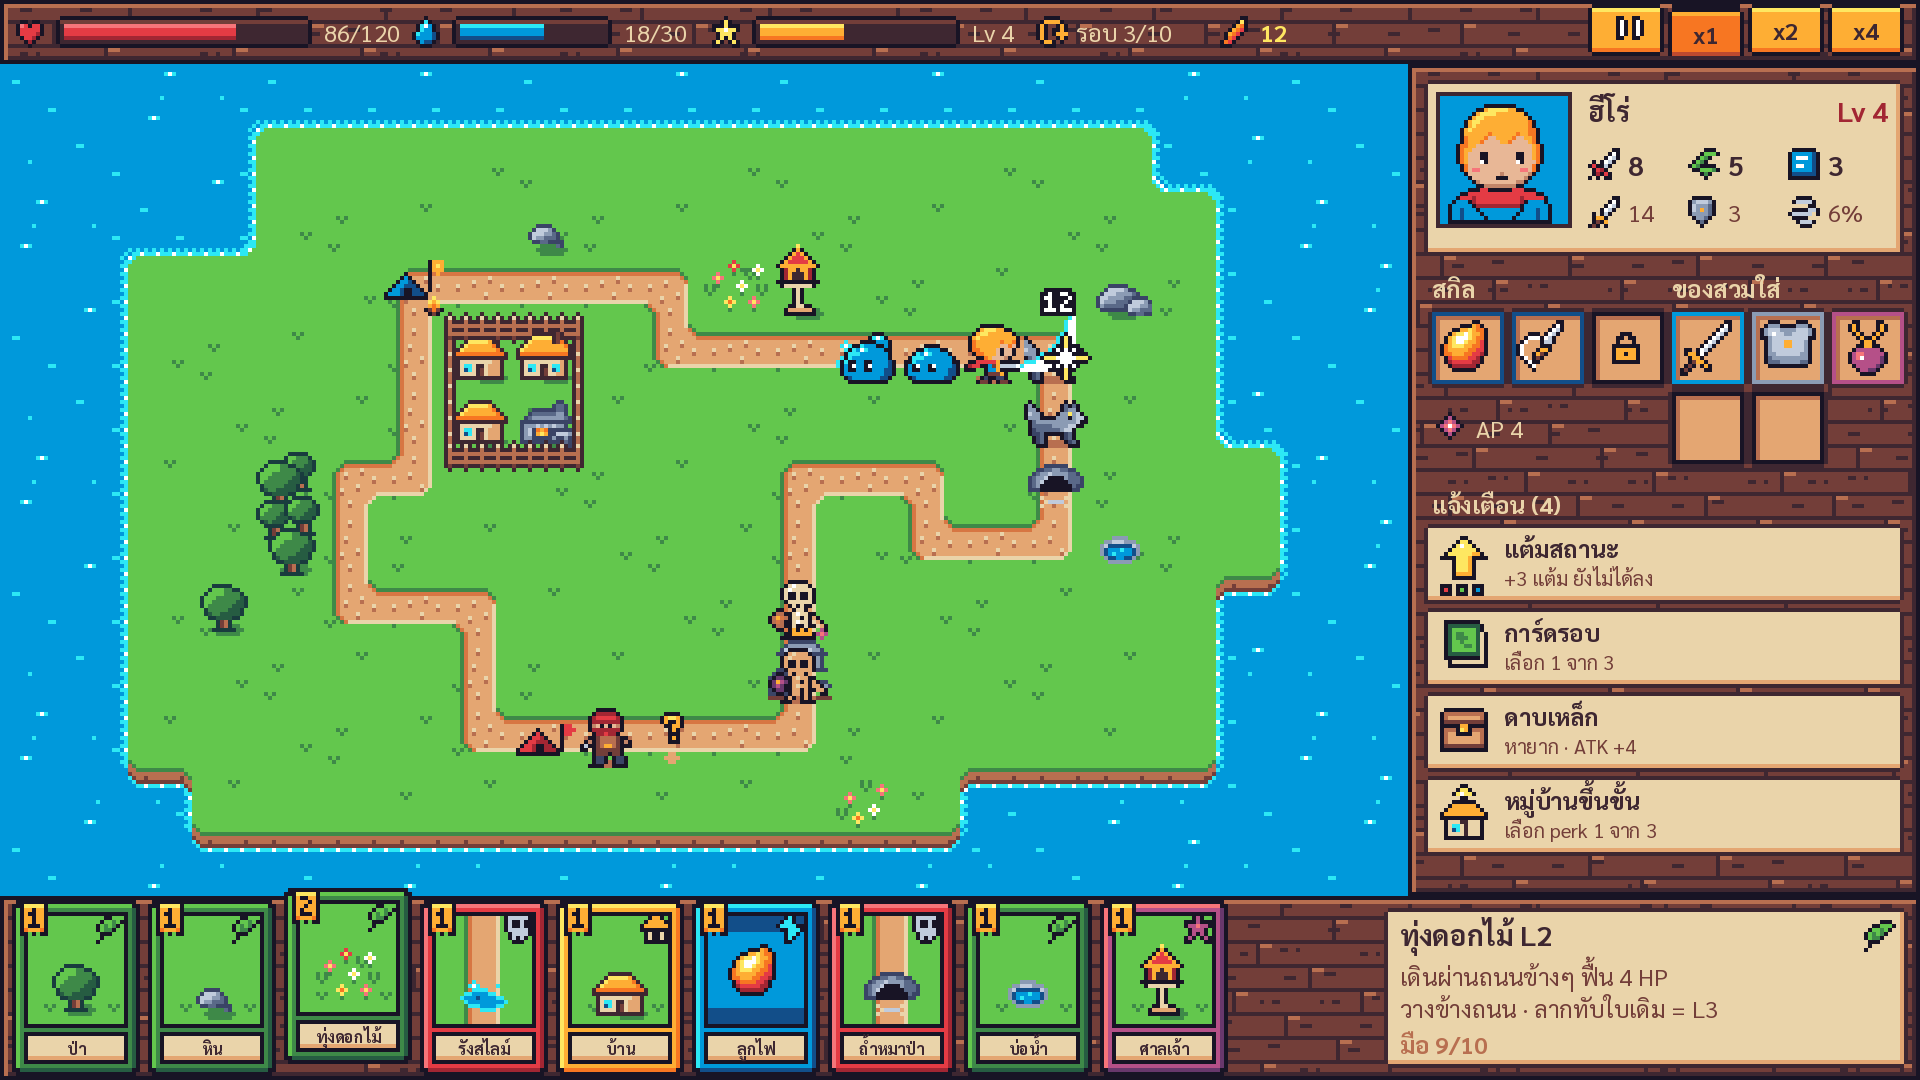
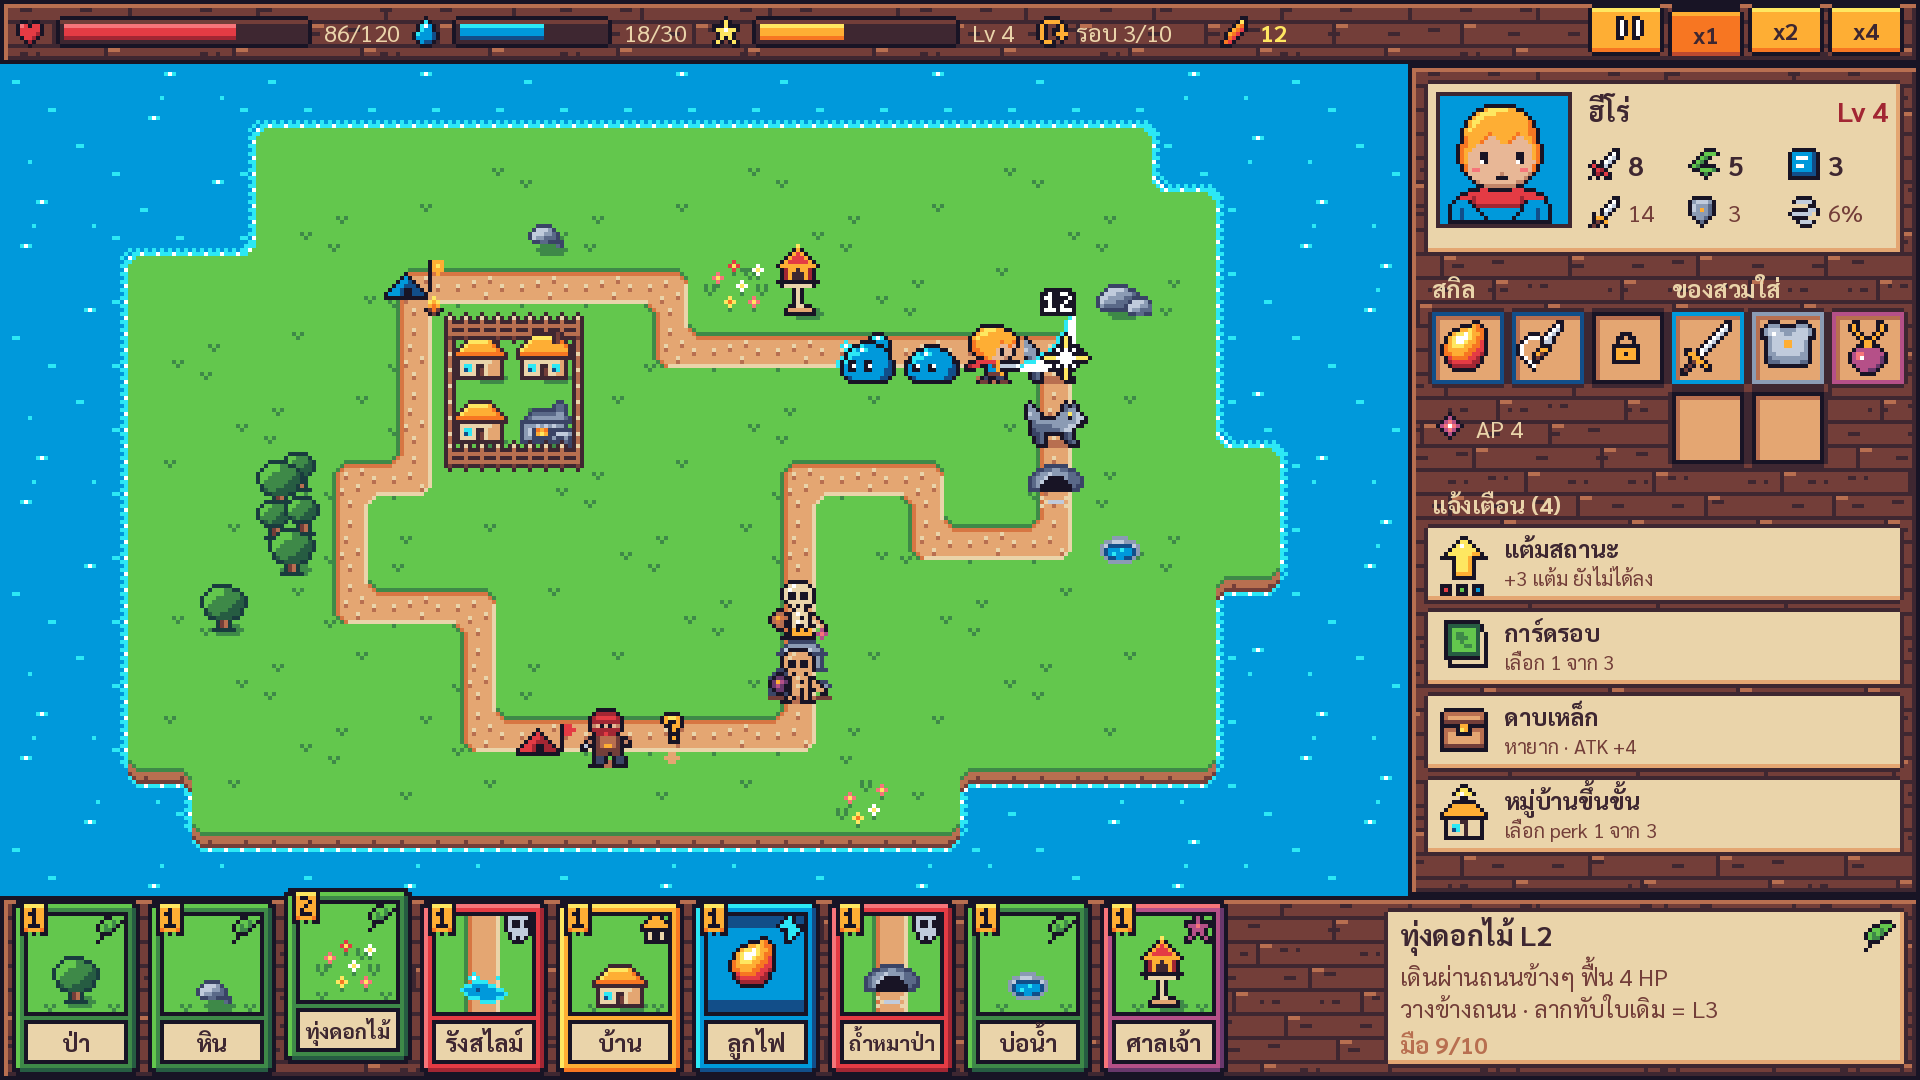
Make the card name plate 24x9 so Thai names fit
A 6 px Thai font is about 9 px tall with tone marks, so the 6 px plate
cut marks off and long names overflowed. The art window shrinks from
24x27 to 24x24 to make room; the manifest, art bible and mockups follow.

Claude-Session: https://claude.ai/code/session_01FubDSbCbpUZT7FYAeTdQ9B

Changed region(s): [[0.0, 0.8556, 0.625, 1.0]]

diff --git a/tools/art/mockup.py b/tools/art/mockup.py
@@ -196,18 +196,26 @@ class Screen:
     def paste(self, spr, x, y):
         px.paste(self.im, spr, x, y)
 
-    def text(self, x, y, s, size=7, key="w", bold=False, anchor="la"):
-        self.texts.append((x, y, s, size, key, bold, anchor))
+    def text(self, x, y, s, size=7, key="w", bold=False, anchor="la", fit=None):
+        """fit: max width in screen px; the text is shrunk to fit like the game does."""
+        self.texts.append((x, y, s, size, key, bold, anchor, fit))
+
+    def font(self, size, bold):
+        f = self.fonts.get((size, bold))
+        if f is None:
+            path = os.path.join(self.fonts["dir"], "Sarabun-Bold.ttf" if bold else "Sarabun-Regular.ttf")
+            f = ImageFont.truetype(path, round(size * Z), layout_engine=ImageFont.Layout.RAQM)
+            self.fonts[(size, bold)] = f
+        return f
 
     def render(self):
         big = self.im.resize((VIEW[0] * Z, VIEW[1] * Z), Image.NEAREST)
         d = ImageDraw.Draw(big)
-        for (x, y, s, size, key, bold, anchor) in self.texts:
-            f = self.fonts.get((size, bold))
-            if f is None:
-                path = os.path.join(self.fonts["dir"], "Sarabun-Bold.ttf" if bold else "Sarabun-Regular.ttf")
-                f = ImageFont.truetype(path, size * Z, layout_engine=ImageFont.Layout.RAQM)
-                self.fonts[(size, bold)] = f
+        for (x, y, s, size, key, bold, anchor, fit) in self.texts:
+            f = self.font(size, bold)
+            while fit and d.textlength(s, font=f) > fit * Z and size > 3:
+                size -= 0.25
+                f = self.font(size, bold)
             d.text((x * Z, y * Z), s, font=f, fill=pal.KEY[key], anchor=anchor)
         return big
 
@@ -308,7 +316,7 @@ def hand_bar(sc):
         cx = x0 + 3 + n * 34
         cy = y0 + 1 - (3 if n == hover else 0)
         sc.paste(ui.card(cid, lv), cx, cy)
-        sc.text(cx + 16, cy + 37, names[cid], 4, "D", True, anchor="mm")
+        sc.text(cx + 16, cy + 35.5, names[cid], 6, "D", True, anchor="mm", fit=22)
     box = ui.panel_paper(w - 346 - 3, h - 6)
     sc.paste(box, x0 + 346, y0 + 3)
     bx = x0 + 350

diff --git a/tools/art/ui.py b/tools/art/ui.py
@@ -108,17 +108,17 @@ def card_frame(ctype):
     for (x, y) in ((1, 1), (CARD_W - 2, 1), (1, CARD_H - 2), (CARD_W - 2, CARD_H - 2)):
         c.set(x, y, "k")
     # art window
-    c.rect(3, 3, 26, 29, "k")
+    c.rect(3, 3, 26, 26, "k")
     # name plate
-    c.rect(3, 33, 26, 8, "k")
-    c.rect(4, 34, 24, 6, "c")
-    c.hline(4, 27, 39, "t")
+    # name plate: 24x9 inside, tall enough for a 6 px Thai font with tone marks
+    c.rect(3, 30, 26, 11, "k")
+    c.rect(4, 31, 24, 9, "c")
     return c.image()
 
 
 def art_window(kind, sprite):
-    """26x29 art window (inside the 1px border) for a card."""
-    w, h = 24, 27
+    """24x24 art window (inside the 1px border) for a card."""
+    w, h = 24, 24
     c = px.Canvas(w, h)
     if kind == "road":
         tile = road.road_tile(5)
@@ -131,14 +131,14 @@ def art_window(kind, sprite):
     elif kind == "skill":
         for y in range(h):
             for x in range(w):
-                c.set(x, y, "B" if y < 4 or y > 22 else "u")
+                c.set(x, y, "B" if y < 3 or y > 20 else "u")
     else:
         for y in range(h):
             for x in range(w):
                 c.set(x, y, ground.grass_pixel(x, y, 1 if (y > 14) else 0))
     if sprite is not None:
         sx = (w - sprite.width) // 2
-        sy = h - sprite.height - (1 if kind != "skill" else (h - sprite.height) // 2)
+        sy = max(0, h - sprite.height - (1 if kind != "skill" else (h - sprite.height) // 2))
         c.paste(sprite, sx, sy)
     return c.image()
 

diff --git a/tools/art/build.py b/tools/art/build.py
@@ -174,8 +174,8 @@ CARD_IDS = ["rock", "grove", "meadow", "spring", "slime_nest", "wolf_den", "grav
 def build_cards(man):
     c = man["cards"]
     c["size"] = [ui.CARD_W, ui.CARD_H]
-    c["name_plate"] = {"rect": [4, 34, 24, 6], "text_color": pal.HEX["D"]}
-    c["art_window"] = {"rect": [4, 4, 24, 27]}
+    c["name_plate"] = {"rect": [4, 31, 24, 9], "text_color": pal.HEX["D"]}
+    c["art_window"] = {"rect": [4, 4, 24, 24]}
     c["level_badge"] = {"pos": [2, 0], "size": [7, 9]}
     c["type_icon"] = {"pos": [ui.CARD_W - 11, 3], "size": [8, 8]}
     for ctype in ui.TYPE_COLORS:
